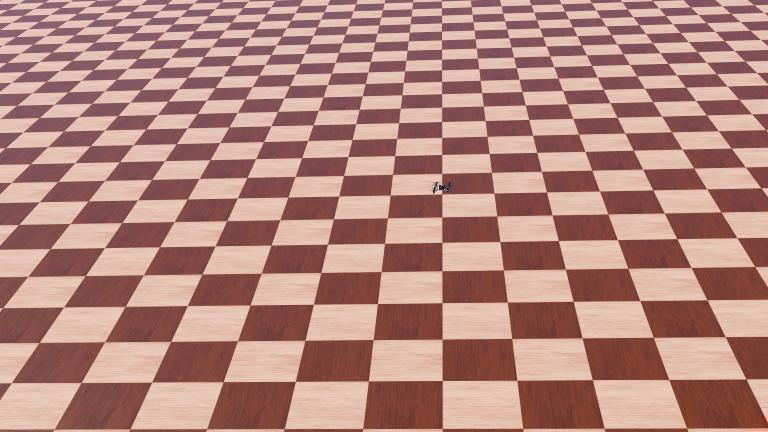
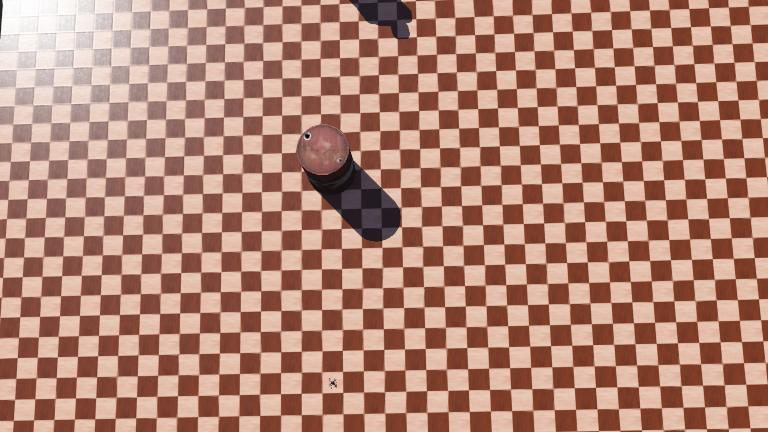
feat(Implementacion de nuevo Sis de navegacion): Por temas de pruebas implemente un sistema de navegacion basado en waypoints, configure una ruta basica por defecto, tambien se agrego dos objetos dentro del mapa de la simulacion.
Refs #5

diff --git a/controllers/crazyfliepy/crazyfliepy.py b/controllers/crazyfliepy/crazyfliepy.py
@@ -12,7 +12,7 @@ from pid_controller import (
     pid_velocity_fixed_height_controller,
 )
 
-FLYING_ALTITUDE = 1.0 #Estable la altura fija del drone - 1m
+FLYING_ALTITUDE = 0.6 #Estable la altura fija del drone - 1m
 
 def main():
 
@@ -75,8 +75,8 @@ def main():
     # Iniciacion de las variables 
     actual_state = ActualState()
     desired_state = DesiredState()
-    past_x_global = 0.0
-    past_y_global = 0.0
+    past_x_global = gps.getValues()[0] #Obtiene la posicion global en x del drone - De esta manera el dron se puede posicionar en cualquier parte del mapa sin afectar su funcionamiento basico.
+    past_y_global = gps.getValues()[1] #Obtiene la posicion global en y del drone - De esta manera el dron se puede posicionar en cualquier parte del mapa sin afectar su funcionamiento basico.
     past_time = robot.getTime()
 
     # Iniciacion de los valores (gains) para el controlador PID
@@ -112,6 +112,13 @@ def main():
     tvec = [0, 5, 10, 15]
 
     stable = False
+
+    #Variables para el sistema de navegacion por waypoints
+    current_wp_index = 0
+    waypoints = [] #list para guardar los waypoints
+    th0 = 0.0 #Valor inicial del angulo de yaw 
+    smoothed_vx = 0.0 #Velocidad en X del dron (promedio de las ultimas velocidades)
+    smoothed_vy = 0.0 #Velocidad en Y del dron (promedio de las ultimas velocidades)
 
     tini = robot.getTime()
 
@@ -201,6 +208,7 @@ def main():
         Kh = 5.0
         th = rpy[2]
 
+        '''
         if robot.getTime() > 5:
             if stable == False:
                 #inicializa interp
@@ -220,7 +228,7 @@ def main():
                 vy = -Kp*(y_global-yd)
                 forward_desired = math.cos(th)*vx+math.sin(th)*vy
                 sideways_desired = -math.sin(th)*vx+math.cos(th)*vy
-                height_desired = 1.0
+                height_desired = 0.6 #Altura deseada del dron para el sistema automatico de rutas
                 thd = spi.splev(tcurr, thc)
                 dang = math.fmod(th-thd, 2.0*math.pi)
                 yaw_desired = -Kh*dang
@@ -228,6 +236,69 @@ def main():
                     forward_desired = 0
                     sideways_desired = 0
                     yaw_desired = 0
+        else:
+            height_desired += height_diff_desired * dt
+        '''
+
+        # Sistema de navegacion basado en waypoint - se configuro una ruta por defecto
+        if robot.getTime() > 5:
+            if stable == False:
+                x0 = x_global
+                y0 = y_global
+                th0 = th
+                # El dron avanza hacia +Y. Evadir derecha = +X, Evadir izquierda = -X
+                waypoints = [
+                    (x0, y0 + 1.5),       # WP1: Avanza de frente hacia el Obs 1
+                    (x0 + 1, y0 + 1.5),   # WP2: Evasión derecha (+X) manteniendo el avance (+1.5 en Y)
+                    (x0 + 1, y0 + 3.2),   # WP3: Avanza pasando el Obs 1
+                    (x0, y0 + 3.2),       # WP4: Vuelve al centro
+                    (x0, y0 + 4.9),       # WP5: Avanza de frente hacia el Obs 2
+                    (x0 - 1, y0 + 4.9),   # WP6: Evasión izquierda (-X) manteniendo el avance (+3.9 en Y)
+                    (x0 - 1, y0 + 6.2),   # WP7: Avanza pasando el Obs 2
+                    (x0, y0 + 6.2),       # WP8: Vuelve al centro
+                    (x0, y0 + 6.61)       # WP9: Posición final
+                ]
+                current_wp_index = 0
+                stable = True
+            else:
+                if current_wp_index < len(waypoints):
+                    xd, yd = waypoints[current_wp_index]
+                    dist = math.sqrt((x_global - xd)**2 + (y_global - yd)**2)
+                    
+                    if dist < 0.15:
+                        current_wp_index += 1
+                        
+                    if current_wp_index < len(waypoints):
+                        xd, yd = waypoints[current_wp_index]
+                        vx = -Kp * (x_global - xd)
+                        vy = -Kp * (y_global - yd)
+                        
+                        v_mag = math.sqrt(vx**2 + vy**2)
+                        # Límite más estricto de velocidad para evitar giros agresivos
+                        if v_mag > 0.4:
+                            vx = (vx / v_mag) * 0.4
+                            vy = (vy / v_mag) * 0.4
+                            
+                        # Filtro de suavizado (low-pass) para una aceleracion progresiva
+                        smoothed_vx = 0.9 * smoothed_vx + 0.1 * vx
+                        smoothed_vy = 0.9 * smoothed_vy + 0.1 * vy
+                            
+                        forward_desired = math.cos(th)*smoothed_vx + math.sin(th)*smoothed_vy
+                        sideways_desired = -math.sin(th)*smoothed_vx + math.cos(th)*smoothed_vy
+                        
+                        dang = th - th0
+                        while dang > math.pi: dang -= 2.0 * math.pi
+                        while dang < -math.pi: dang += 2.0 * math.pi
+                        yaw_desired = -Kh * dang
+                    else:
+                        forward_desired = 0.0
+                        sideways_desired = 0.0
+                        yaw_desired = 0.0
+                else:
+                    forward_desired = 0.0
+                    sideways_desired = 0.0
+                    yaw_desired = 0.0
+                height_desired = 0.6
         else:
             height_desired += height_diff_desired * dt
 